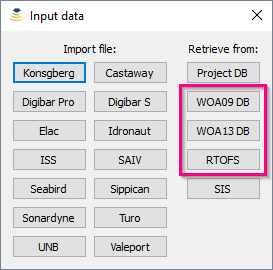
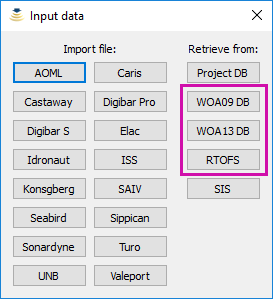
Update doc for AOML reader

Changed region(s): [[0.0, 0.0, 1.0, 1.0]]

diff --git a/docs/supported_formats.rst b/docs/supported_formats.rst
@@ -4,12 +4,20 @@ Supported Formats
 =================================================== ==== =====
                         Format                      Read Write
 =================================================== ==== =====
-kongsberg asvp (.asvp)                              X    X
+aoml (.txt)                                         X
+caris (.svp)                                        X    X
 castaway (.csv)                                     X
+csv (.csv)                                               X
 digibar pro (.txt)                                  X
 digibar s (.csv)                                    X
 elac (.sva)                                         X    X
+hypack (.vel)                                            X
 idronaut (.txt)                                     X
+iss (.v*, .d*, .svp)                                X
+ixblue (.txt)                                            X
+kongsberg asvp (.asvp)                              X    X
+ncei (.nc)                                               X
+qps (.bsvp)                                              X
 saiv (.txt)                                         X
 seabird (.cnv)                                      X
 sippican (.edf)                                     X
